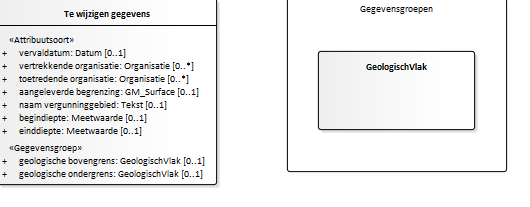
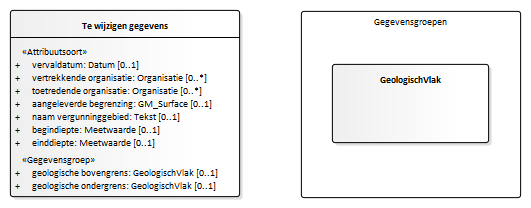
Conceptualmodel-EPLconceptueel-0.1-1-20201106-20210125-180701

Changed region(s): [[0.0, 0.0, 0.483, 0.9565], [0.5132, 0.0, 0.9962, 0.9565], [0.6943, 0.087, 0.8453, 0.1449]]

diff --git a/data/EPL-cat.msword.html b/data/EPL-cat.msword.html
@@ -15,7 +15,7 @@
    <body>
       <p>Conceptual model/EPL conceptueel/20201106</p>
       <p>Imvertor: 1.63.0</p>
-      <p>Model release: Conceptualmodel-EPLconceptueel-0.1-1-20201106-20210125-174849</p>
+      <p>Model release: Conceptualmodel-EPLconceptueel-0.1-1-20201106-20210125-180701</p>
       <hr>
       <section>
          <h1>Artikel 1 Definitie van registratieobject, entiteiten en attributen</h1>
@@ -3500,7 +3500,7 @@
                      </section>
                </section><a class="anchor" id="graph_EAID_DFE0F1C5_34F4_4fcf_9A60_D73A1351512D"></a><a class="anchor" id="global_class_Model_Tewijzigengegevens"></a><section id="global_class_Model_Tewijzigengegevens">
                   <h3>   Te wijzigen gegevens</h3>
-                  <div class="imageinfo "><img src="Images/EAID_AE819DBC_0C53_4b59_83B3_0968DD1331F7.png" usemap="#imagemap-EAID_AE819DBC_0C53_4b59_83B3_0968DD1331F7" alt="Diagram "><map name="imagemap-EAID_AE819DBC_0C53_4b59_83B3_0968DD1331F7"><area shape="rect" alt="GeologischVlak" coords="318,51,475,130" href="#graph_EAID_6A0702FB_0E81_4882_BD62_80A824E6BF00"><area shape="rect" alt="Te wijzigen gegevens" coords="-3,-2,217,185" href="#graph_EAID_DFE0F1C5_34F4_4fcf_9A60_D73A1351512D"></map><p><b></b></p>
+                  <div class="imageinfo "><img src="Images/EAID_AE819DBC_0C53_4b59_83B3_0968DD1331F7.png" usemap="#imagemap-EAID_AE819DBC_0C53_4b59_83B3_0968DD1331F7" alt="Diagram "><map name="imagemap-EAID_AE819DBC_0C53_4b59_83B3_0968DD1331F7"><area shape="rect" alt="GeologischVlak" coords="332,64,489,143" href="#graph_EAID_6A0702FB_0E81_4882_BD62_80A824E6BF00"><area shape="rect" alt="Te wijzigen gegevens" coords="10,10,240,197" href="#graph_EAID_DFE0F1C5_34F4_4fcf_9A60_D73A1351512D"></map><p><b></b></p>
                   </div>
                   <table style="width: 100%;">
                      <colgroup style="width: 30%;"></colgroup>

diff --git a/data/EPL-cat.respec.html b/data/EPL-cat.respec.html
@@ -3476,7 +3476,7 @@
             </section>
       </section><a class="anchor" id="graph_EAID_DFE0F1C5_34F4_4fcf_9A60_D73A1351512D"></a><a class="anchor" id="global_class_Model_Tewijzigengegevens"></a><section id="global_class_Model_Tewijzigengegevens">
          <h3>   Te wijzigen gegevens</h3>
-         <div class="imageinfo "><img src="data/Images/EAID_AE819DBC_0C53_4b59_83B3_0968DD1331F7.png" usemap="#imagemap-EAID_AE819DBC_0C53_4b59_83B3_0968DD1331F7" alt="Diagram "><map name="imagemap-EAID_AE819DBC_0C53_4b59_83B3_0968DD1331F7"><area shape="rect" alt="GeologischVlak" coords="318,51,475,130" href="#graph_EAID_6A0702FB_0E81_4882_BD62_80A824E6BF00"><area shape="rect" alt="Te wijzigen gegevens" coords="-3,-2,217,185" href="#graph_EAID_DFE0F1C5_34F4_4fcf_9A60_D73A1351512D"></map><p><b></b></p>
+         <div class="imageinfo "><img src="data/Images/EAID_AE819DBC_0C53_4b59_83B3_0968DD1331F7.png" usemap="#imagemap-EAID_AE819DBC_0C53_4b59_83B3_0968DD1331F7" alt="Diagram "><map name="imagemap-EAID_AE819DBC_0C53_4b59_83B3_0968DD1331F7"><area shape="rect" alt="GeologischVlak" coords="332,64,489,143" href="#graph_EAID_6A0702FB_0E81_4882_BD62_80A824E6BF00"><area shape="rect" alt="Te wijzigen gegevens" coords="10,10,240,197" href="#graph_EAID_DFE0F1C5_34F4_4fcf_9A60_D73A1351512D"></map><p><b></b></p>
          </div>
          <table style="width: 100%;">
             <colgroup style="width: 30%;"></colgroup>
